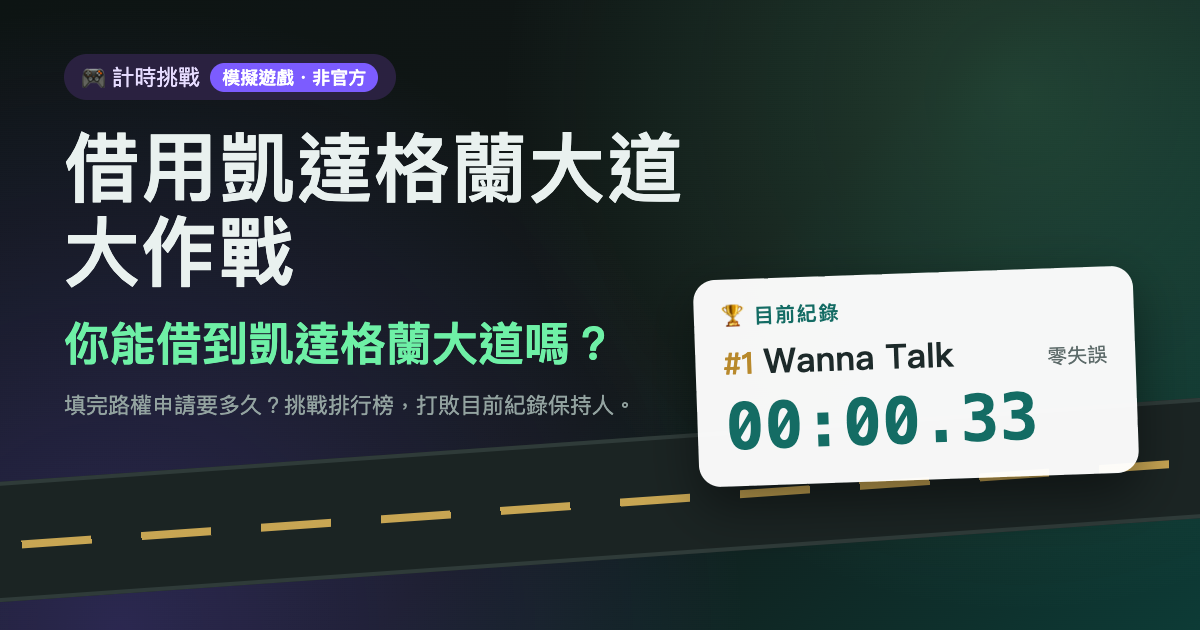
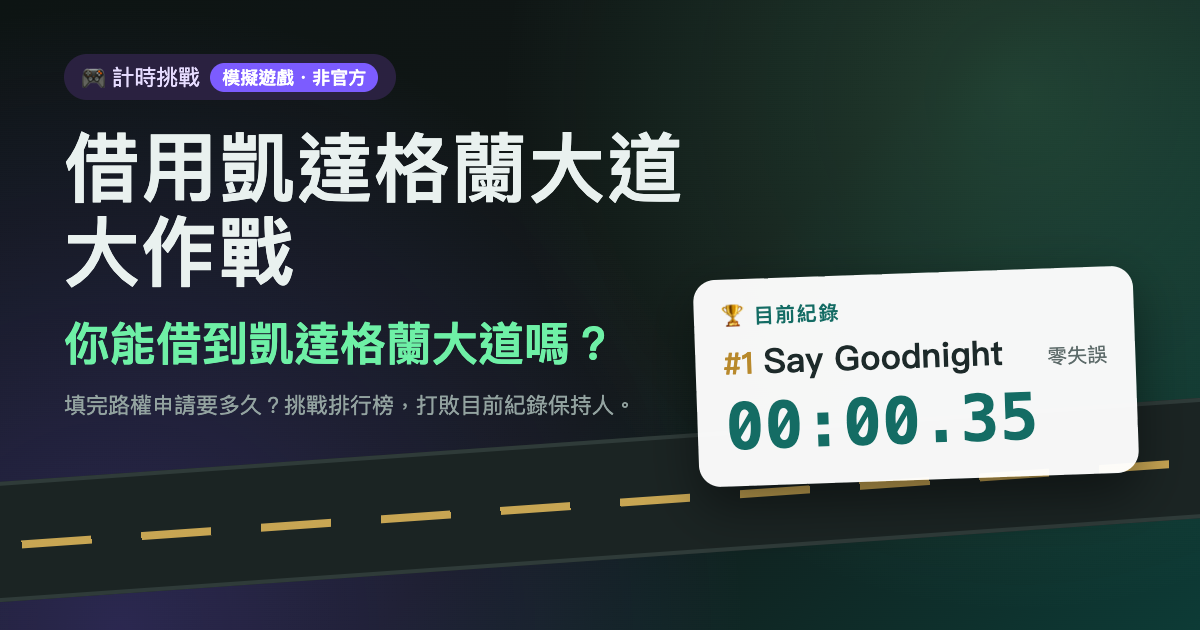
Rename the seed record to "Say Goodnight" at 0.35 s
Live D1 row updated in place (same id, same 100 ms bucket). Code
fallback copy, reserved-name check (game + Worker), og tags and og.png
updated to match.

Changed region(s): [[0.6167, 0.5429, 0.8325, 0.6032], [0.8325, 0.6333, 0.8633, 0.6937]]

diff --git a/tests/scores.test.js b/tests/scores.test.js
@@ -13,11 +13,12 @@ beforeEach(() => store.clear());
 
 const rec = (i, ms) => ({ id: `p${i}`, player: `P${i}`, timeMs: ms, penaltyMs: 0, errors: 0 });
 
-test('offline: Wanna Talk (0.33s) is always on the board', async () => {
+test('offline: Say Goodnight (0.35s) is always on the board', async () => {
   const page = await getLeaderboardPage();
   assert.equal(page.online, false);
   assert.equal(page.total, 1);
-  assert.deepEqual(page.rows.map((r) => [r.rank, r.player]), [[1, 'Wanna Talk']]);
+  assert.deepEqual(page.rows.map((r) => [r.rank, r.player]), [[1, 'Say Goodnight']]);
+  assert.equal(page.rows[0].timeMs + page.rows[0].penaltyMs, 350);
   assert.equal(page.prev, null);
   assert.equal(page.next, null);
 });
@@ -27,7 +28,7 @@ test('offline: players rank against the seed by penalty-inclusive time', async (
   await submitResult({ id: 'a', player: 'A', timeMs: 60000, penaltyMs: 5000, errors: 1 }, null);
   const res = await submitResult({ id: 'b', player: 'B', timeMs: 200, penaltyMs: 0, errors: 0 }, null);
   assert.equal(res.rank, 1);
-  assert.deepEqual(res.page.rows.map((r) => r.player), ['B', 'Wanna Talk', 'A']);
+  assert.deepEqual(res.page.rows.map((r) => r.player), ['B', 'Say Goodnight', 'A']);
 });
 
 test('offline: paging walks the whole board 10 at a time, both directions', async () => {
@@ -72,7 +73,7 @@ test('offline: last page is aligned (39 records → 31–39)', async () => {
   assert.deepEqual([prev.rows[0].rank, prev.rows.at(-1).rank], [21, 30]);
 });
 
-test('Wanna Talk is a reserved nickname', () => {
-  assert.ok(isReservedName(' wanna   TALK '));
-  assert.ok(!isReservedName('Wanna Talker'));
+test('Say Goodnight is a reserved nickname', () => {
+  assert.ok(isReservedName(' say   GOODNIGHT '));
+  assert.ok(!isReservedName('Say Goodnights'));
 });

diff --git a/leaderboard/test/logic.test.js b/leaderboard/test/logic.test.js
@@ -11,10 +11,10 @@ test('sanitizePlayer trims, strips control chars, caps at 20 code points', () =>
   assert.equal(sanitizePlayer(undefined), '匿名');
 });
 
-test('Wanna Talk is reserved in any casing/spacing', () => {
-  assert.ok(isReservedName('Wanna Talk'));
-  assert.ok(isReservedName('  wanna   TALK '));
-  assert.ok(!isReservedName('Wanna Talk 2'));
+test('Say Goodnight is reserved in any casing/spacing', () => {
+  assert.ok(isReservedName('Say Goodnight'));
+  assert.ok(isReservedName('  say   GOODNIGHT '));
+  assert.ok(!isReservedName('Say Goodnight 2'));
 });
 
 test('validateFinish enforces server time window and sane penalties', () => {
@@ -27,7 +27,7 @@ test('validateFinish enforces server time window and sane penalties', () => {
   assert.equal(validateFinish({ ...base, penaltyMs: 1500 }).error, 'bad_penalty');
   assert.equal(validateFinish({ ...base, penaltyMs: -1000 }).error, 'bad_penalty');
   assert.equal(validateFinish({ ...base, errors: 1.5 }).error, 'bad_errors');
-  assert.equal(validateFinish({ ...base, player: 'wanna talk' }).error, 'name_reserved');
+  assert.equal(validateFinish({ ...base, player: 'say goodnight' }).error, 'name_reserved');
 });
 
 test('CORS only echoes allowed origins', () => {

diff --git a/index.html b/index.html
@@ -9,12 +9,12 @@
   <meta property="og:type" content="website" />
   <meta property="og:url" content="./" />
   <meta property="og:title" content="借用凱達格蘭大道大作戰｜你能借到凱達格蘭大道嗎？" />
-  <meta property="og:description" content="非官方計時模擬遊戲：填完凱道路權申請要多久？目前紀錄 Wanna Talk 00:00.33，來挑戰！" />
+  <meta property="og:description" content="非官方計時模擬遊戲：填完凱道路權申請要多久？目前紀錄 Say Goodnight 00:00.35，來挑戰！" />
   <!-- og:url / og:image are rewritten to absolute URLs by .github/workflows/pages.yml at deploy. -->
   <meta property="og:image" content="og.png" />
   <meta property="og:image:width" content="1200" />
   <meta property="og:image:height" content="630" />
-  <meta property="og:image:alt" content="借用凱達格蘭大道大作戰：目前紀錄 Wanna Talk 00:00.33，你能借到凱達格蘭大道嗎？" />
+  <meta property="og:image:alt" content="借用凱達格蘭大道大作戰：目前紀錄 Say Goodnight 00:00.35，你能借到凱達格蘭大道嗎？" />
   <meta name="twitter:card" content="summary_large_image" />
   <link rel="stylesheet" href="styles.css" />
 </head>

diff --git a/js/scores.js b/js/scores.js
@@ -10,8 +10,8 @@ const TOP_N = 10;
 export const SEED_RECORDS = [
   {
     id: 'seed-wanna-talk',
-    player: 'Wanna Talk',
-    timeMs: 330,
+    player: 'Say Goodnight',
+    timeMs: 350,
     penaltyMs: 0,
     errors: 0,
     success: true,
@@ -23,7 +23,7 @@ export const SEED_RECORDS = [
 
 /** Names players may not use (they would impersonate the seed record). */
 export function isReservedName(name) {
-  return String(name || '').trim().toLowerCase().replace(/\s+/g, ' ') === 'wanna talk';
+  return String(name || '').trim().toLowerCase().replace(/\s+/g, ' ') === 'say goodnight';
 }
 
 /**

diff --git a/leaderboard/src/logic.js b/leaderboard/src/logic.js
@@ -5,7 +5,7 @@ export const MIN_RUN_MS = 15_000;          // no human finishes the full form fa
 export const MAX_RUN_MS = 60 * 60 * 1000;  // runs expire after an hour
 export const MAX_PENALTY_MS = 600_000;
 export const MAX_ERRORS = 200;
-export const RESERVED_NAMES = ['wanna talk'];
+export const RESERVED_NAMES = ['say goodnight'];
 export const STARTS_PER_MINUTE = 20;
 
 /** Normalize a nickname: strip control chars, collapse spaces, cap length (by code point). */

diff --git a/og/og.html b/og/og.html
@@ -62,10 +62,10 @@
   <div class="record">
     <div class="label">🏆 目前紀錄</div>
     <div class="row">
-      <div class="who"><span class="rank">#1</span>Wanna Talk</div>
+      <div class="who"><span class="rank">#1</span>Say Goodnight</div>
       <div class="note">零失誤</div>
     </div>
-    <div class="time">00:00.33</div>
+    <div class="time">00:00.35</div>
   </div>
 </body>
 </html>

diff --git a/js/app.js b/js/app.js
@@ -660,7 +660,7 @@ $('#lobby-form').addEventListener('submit', (ev) => {
   const f = ev.currentTarget;
   const name = f.player.value.trim() || '匿名';
   if (isReservedName(name)) {
-    toast('「Wanna Talk」是紀錄保持人的名字，請換一個暱稱', 'warn');
+    toast('「Say Goodnight」是紀錄保持人的名字，請換一個暱稱', 'warn');
     f.player.focus();
     return;
   }

diff --git a/README.md b/README.md
@@ -37,7 +37,7 @@ ES modules need an HTTP server; opening `index.html` via `file://` won't work.
 
 ## Seed record
 
-`SEED_RECORDS` in `js/scores.js` puts **Wanna Talk — 00:00.33** at the top of every board; players compete against it. `leaderboard/schema.sql` seeds the online database with the same row.
+`SEED_RECORDS` in `js/scores.js` puts **Say Goodnight — 00:00.35** at the top of every board; players compete against it. `leaderboard/schema.sql` seeds the online database with the same row.
 
 ## Social preview image
 
@@ -50,7 +50,7 @@ Cloudflare Worker + D1. The server measures each run (start request → finish r
 | Endpoint | Purpose |
 |---|---|
 | `POST /api/runs` | Player pressed 開始計時 → `{ runId }` (rate-limited per hashed IP) |
-| `POST /api/runs/:id/finish` | `{ player, penaltyMs, errors }` → official record, rank, and the page around it. One finish per run; < 15 s or > 1 h is rejected; `Wanna Talk` is a reserved name. Rank comes from 100 ms `score_buckets` + an index range, and the total from `stats`, so no request scans the scores table (D1 bills per row scanned) |
+| `POST /api/runs/:id/finish` | `{ player, penaltyMs, errors }` → official record, rank, and the page around it. One finish per run; < 15 s or > 1 h is rejected; `Say Goodnight` is a reserved name. Rank comes from 100 ms `score_buckets` + an index range, and the total from `stats`, so no request scans the scores table (D1 bills per row scanned) |
 | `GET /api/leaderboard?limit=10[&after=<cursor>\|&before=<cursor>\|&around=<id>\|&last=1]` | One page, aligned to ranks 10n+1 (`around` → the page containing that record; `last` → final page) `{ total, rows[{rank,…}], prev, next }`. Keyset cursors (`total_ms_created_at_rank`), so each page reads only `limit` index rows — no OFFSET |
 
 The game falls back to localStorage (with a notice) when the API is unset, unreachable, or rejects a run.
@@ -59,7 +59,7 @@ Local dev:
 
 ```sh
 cd leaderboard && npm install
-npm run db:init:local   # schema + Wanna Talk seed
+npm run db:init:local   # schema + Say Goodnight seed
 npm run dev             # http://localhost:8787
 # game: http://localhost:8080/?api=http://localhost:8787
 ```
